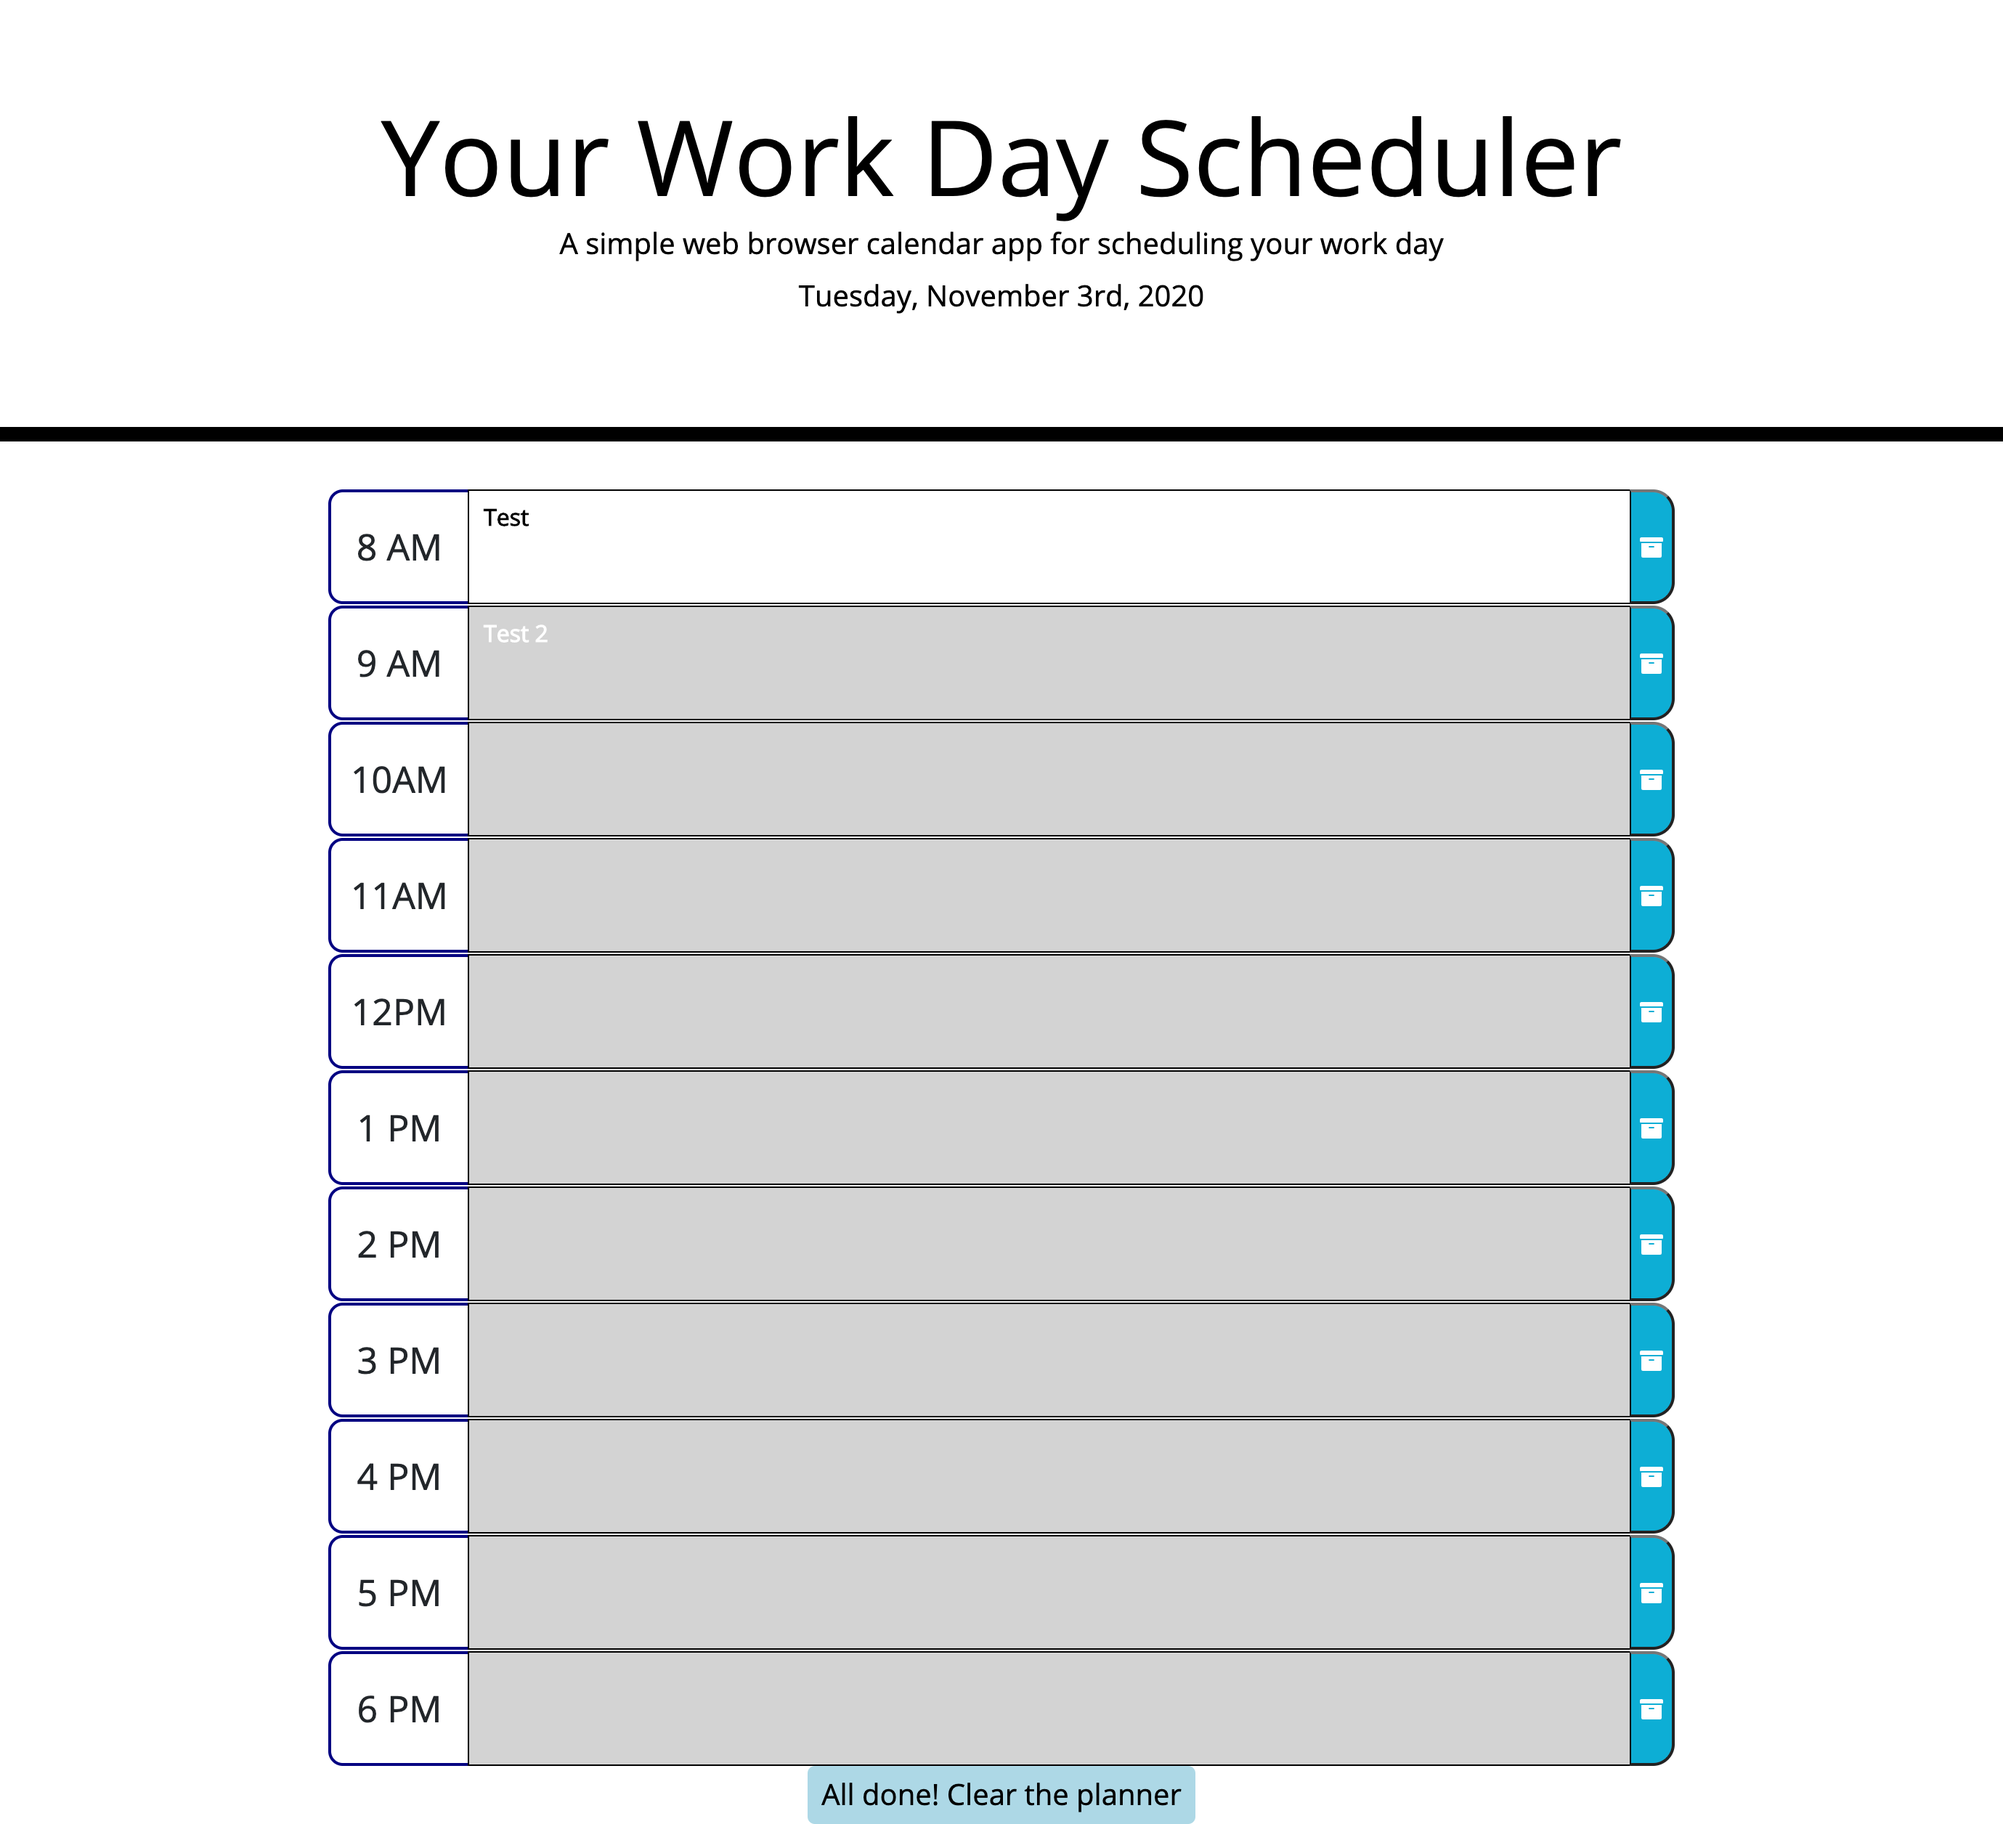
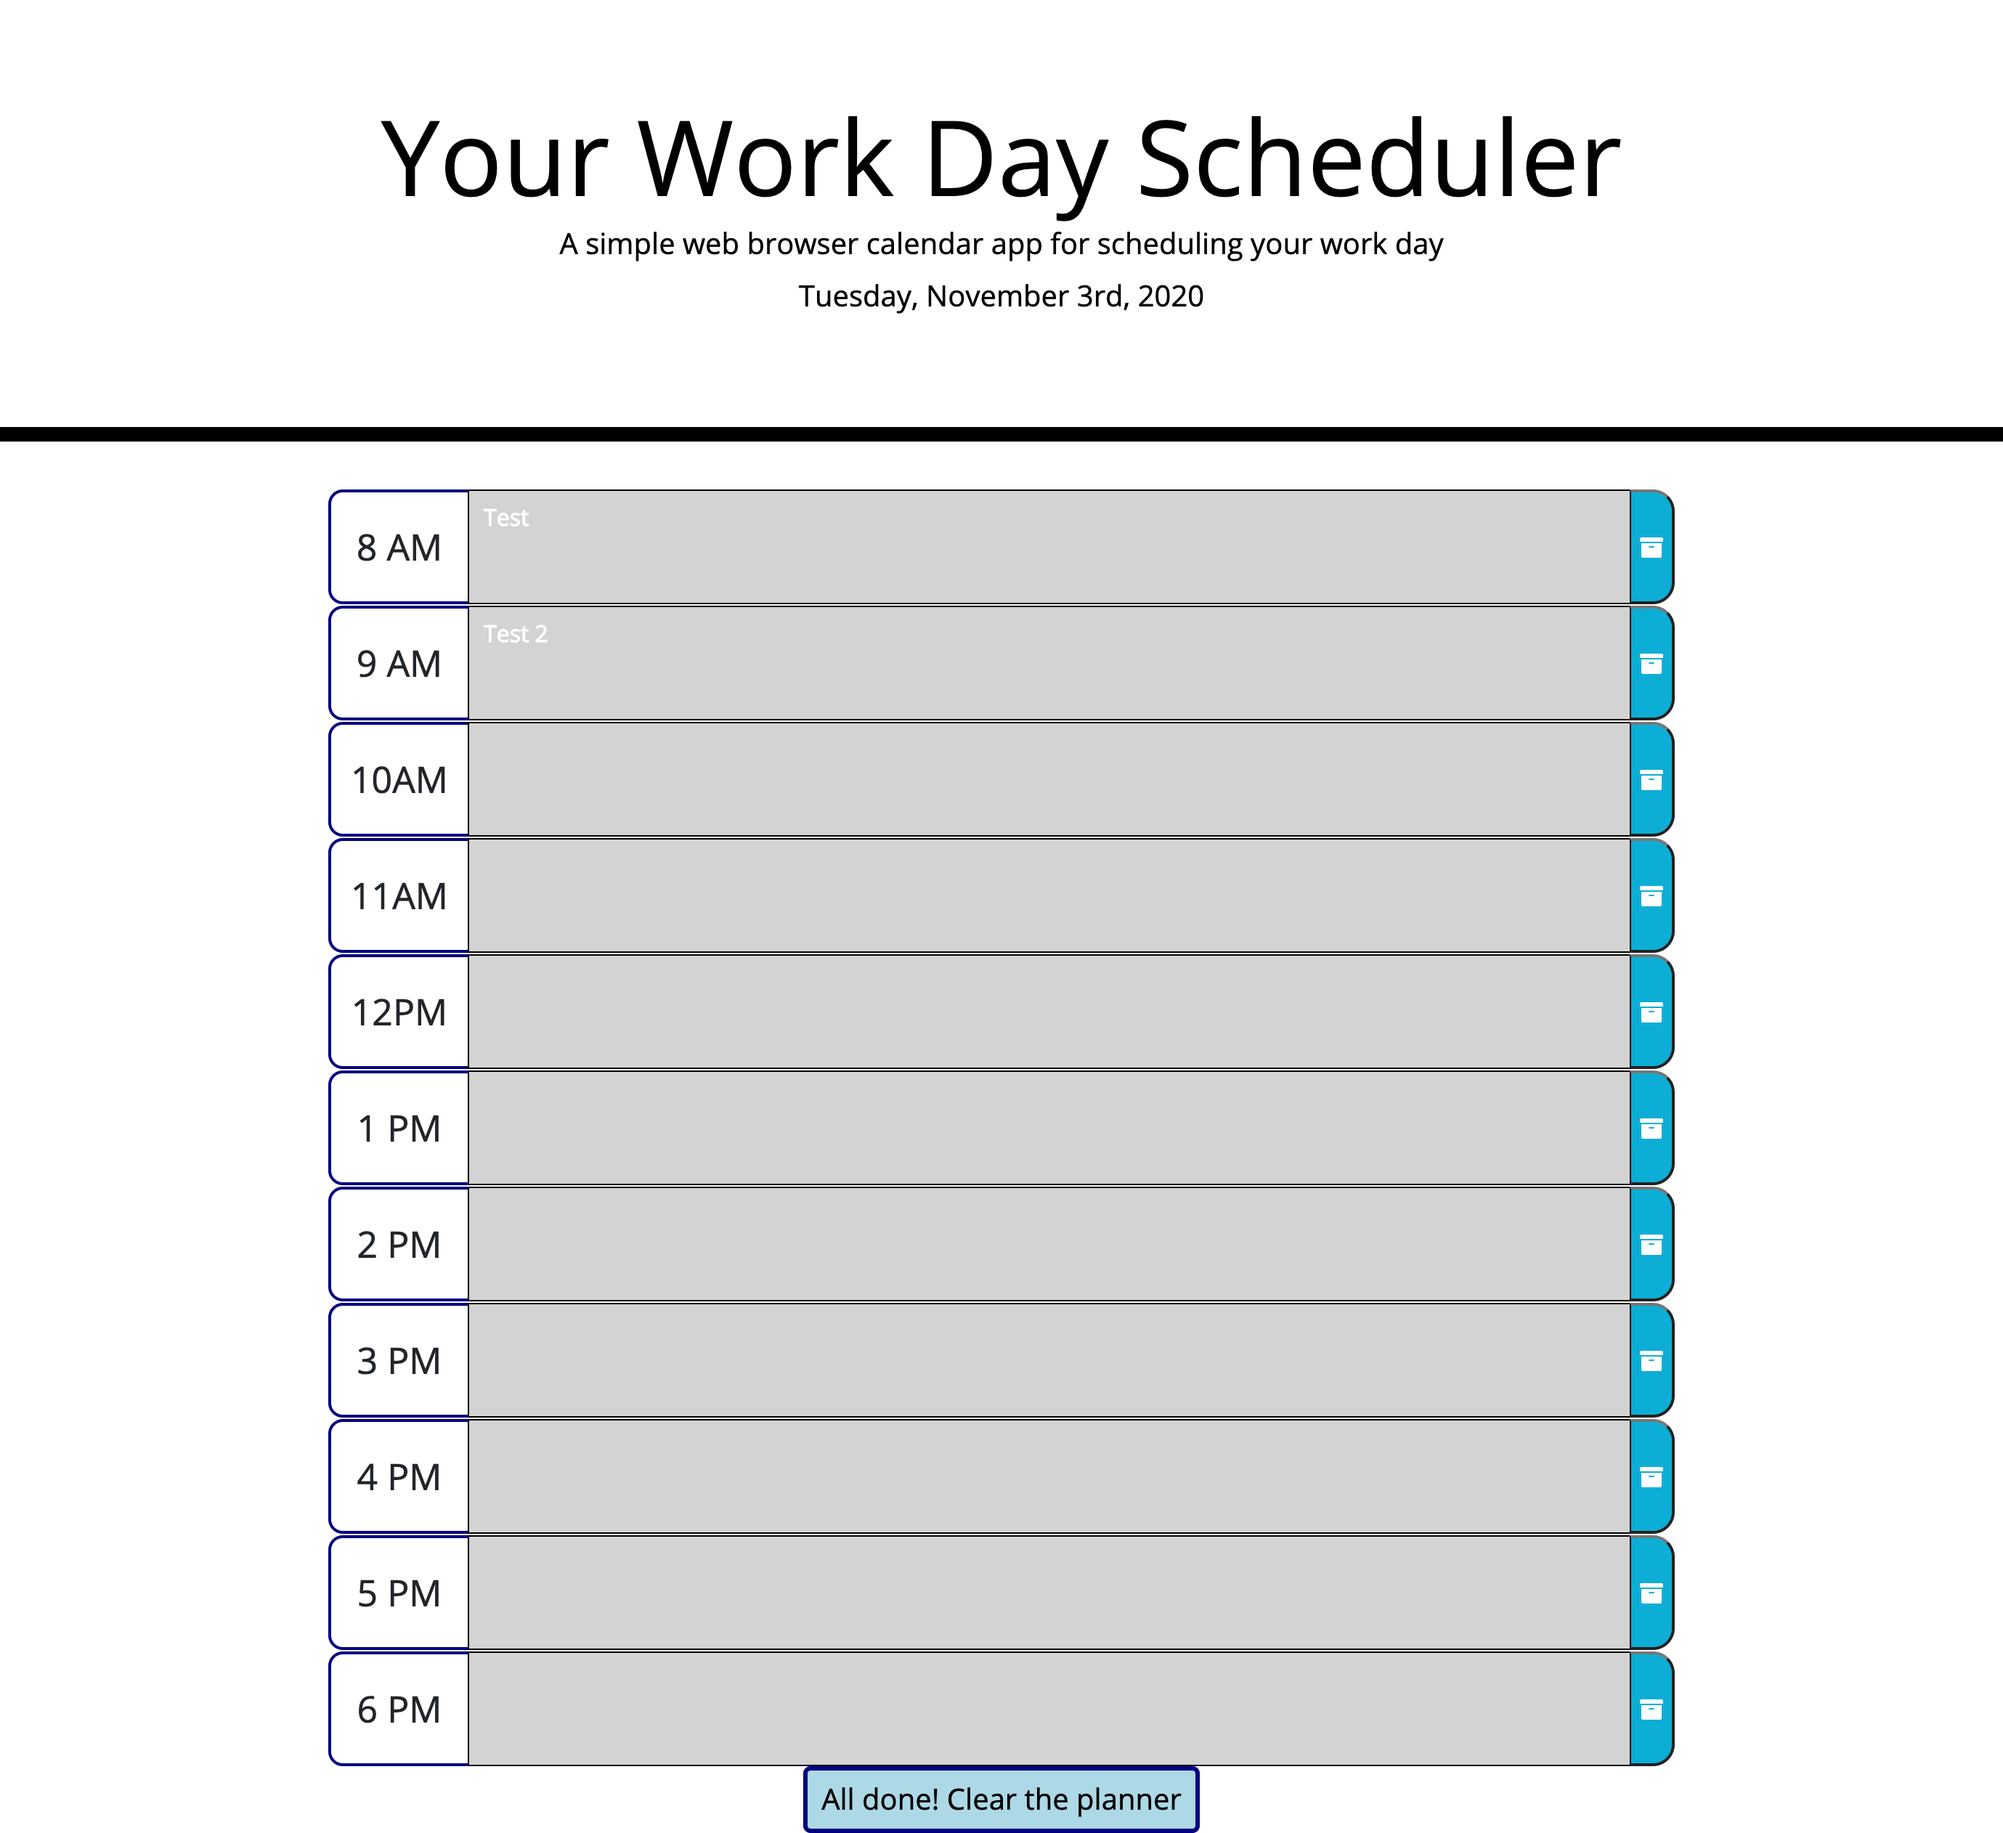
Updated image file used in README

diff --git a/style.css b/style.css
@@ -91,7 +91,7 @@ textarea{
 
 .clearAll {
     float: center;
-    border: navy;
+    border: navy solid 3px;
     border-radius: 5px;
     background-color: lightblue;
     color: black;
